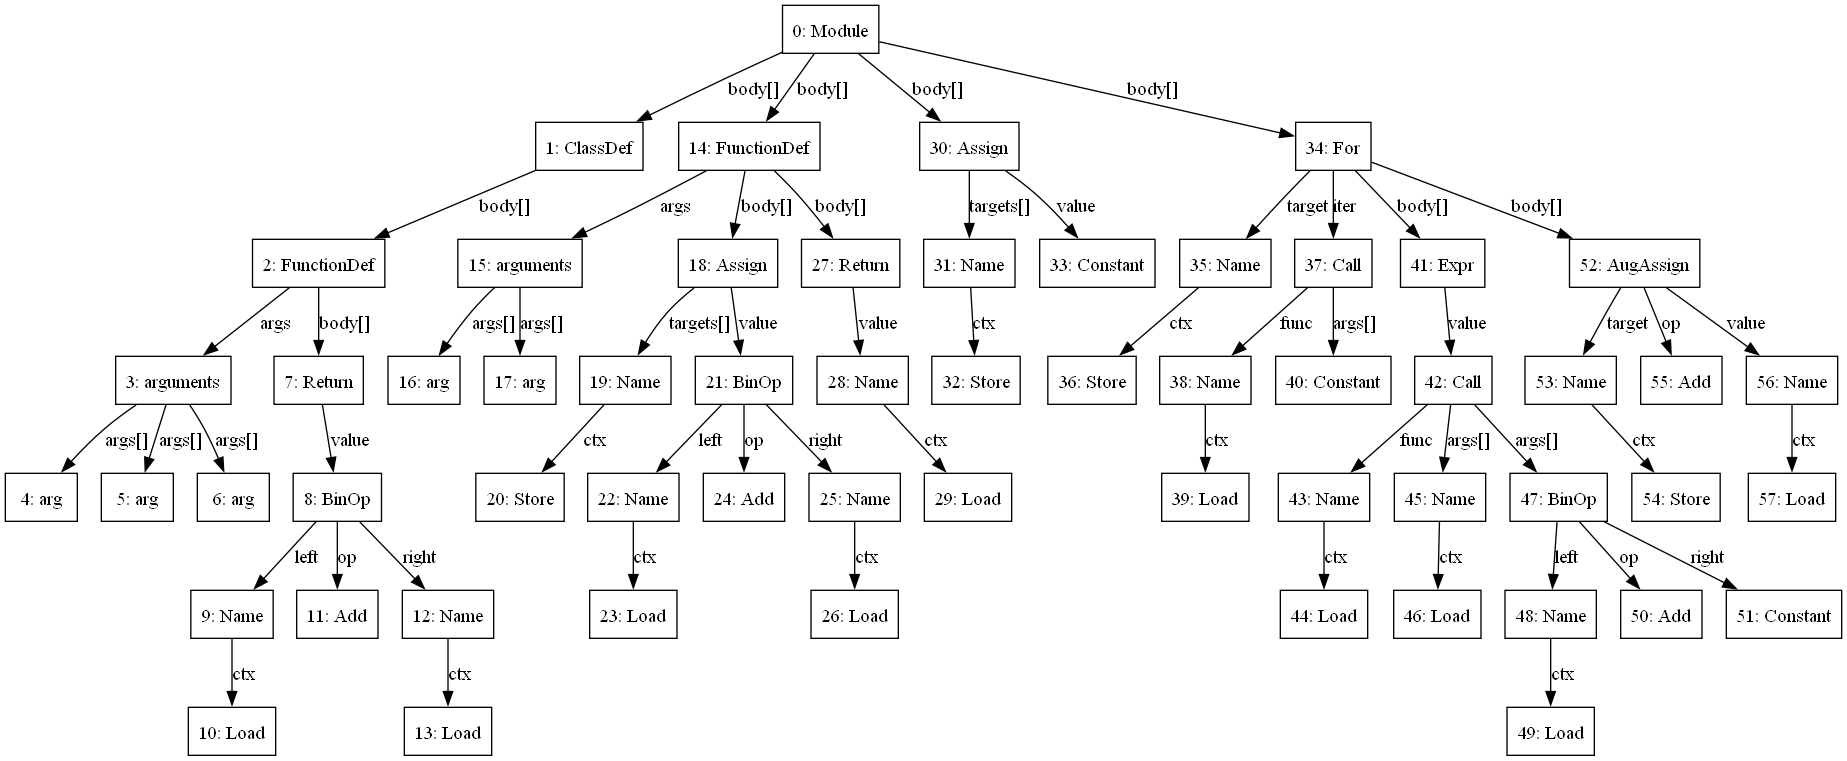
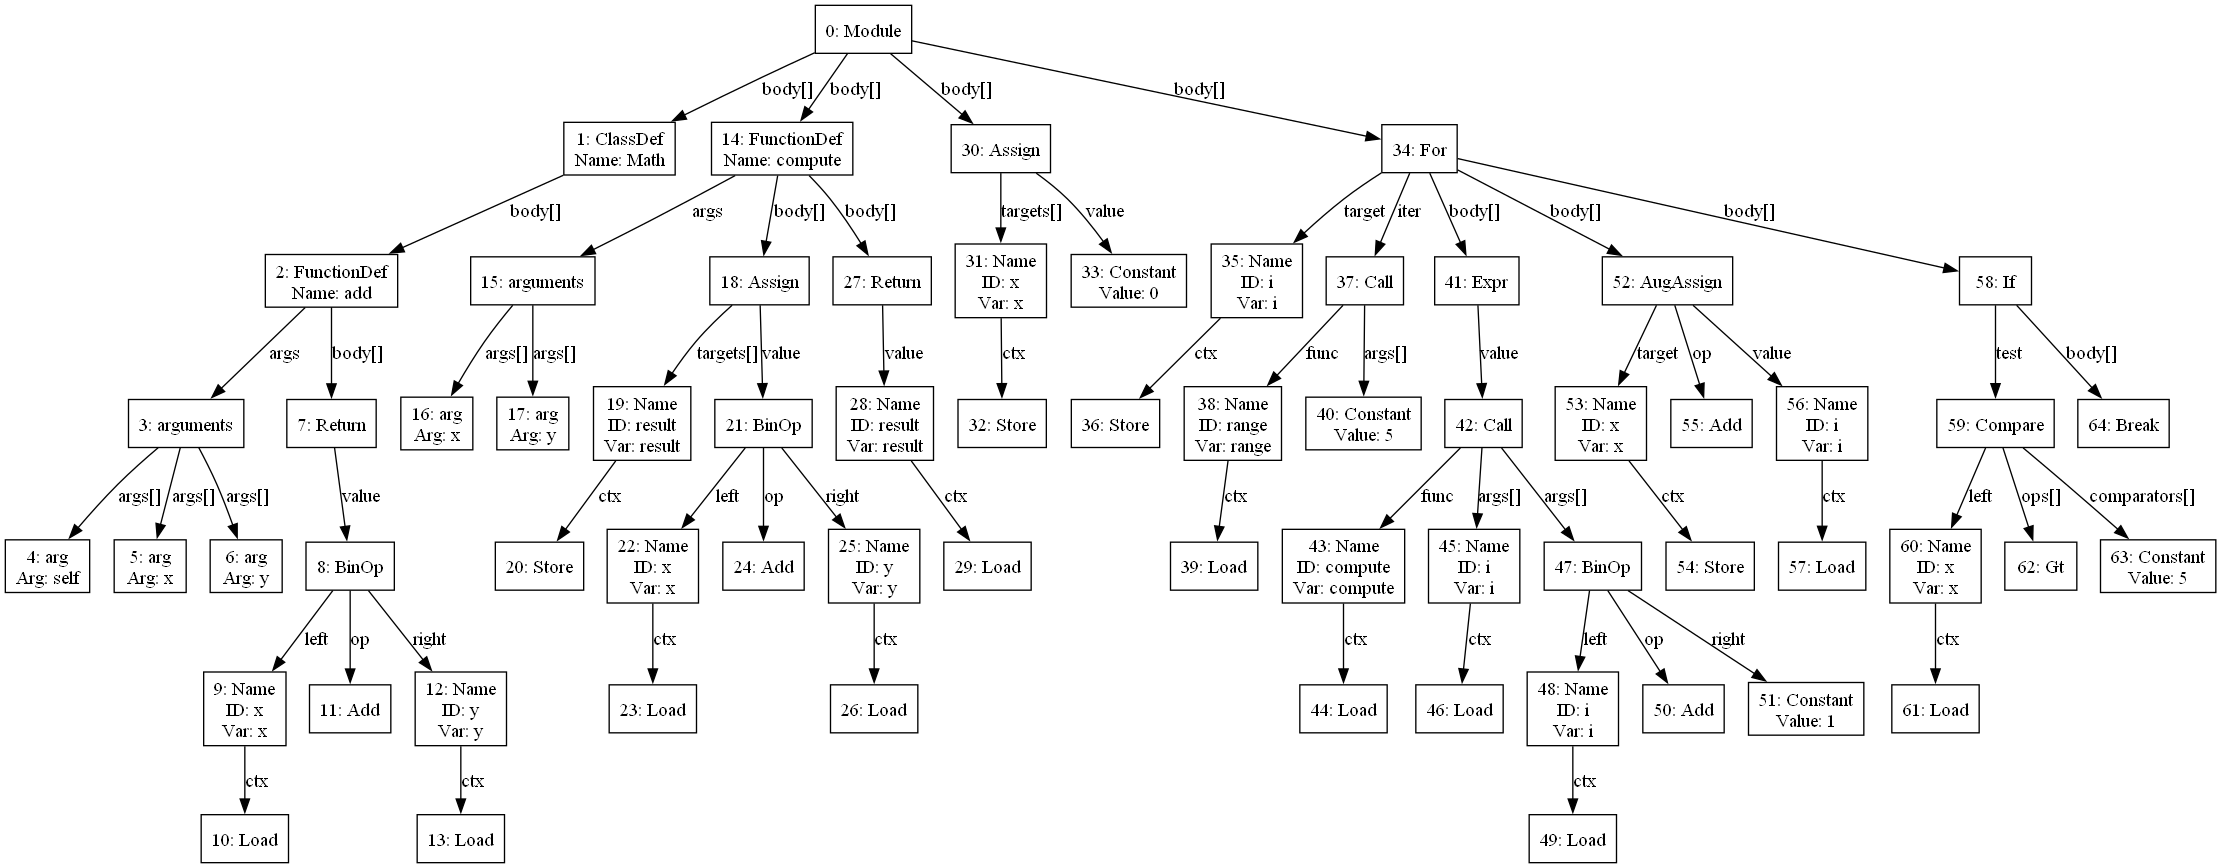
edit: node with value, arg names

diff --git a/test_track.py b/test_track.py
@@ -1,74 +1,71 @@
 import ast
 import astor
 import graphviz
-import os
 from datetime import datetime
 
-class ValueTracker(ast.NodeTransformer):
+class PythonASTAnalyzer(ast.NodeVisitor):
     def __init__(self, code):
         self.ast = ast.parse(code)
-        self.folder_name = "graphs/" + datetime.now().strftime("%Y%m%d_%H%M%S")
+        self.dot = graphviz.Digraph(comment="AST", format='png')
+        self.node_count = 0
 
-    def visit_For(self, node):
-        self.generic_visit(node)  # Process the loop body first to capture internal changes
+    def add_node(self, node, label):
+        node_id = f'node{self.node_count}'
+        detailed_label = f"{self.node_count}: {label}"
 
-        # Initialize Graphviz graph at the start of the loop
-        init_graph_stmt = ast.parse("import graphviz\ndot = graphviz.Digraph('G', format='png')").body
-        folder_check_stmt = ast.parse(f"import os\nif not os.path.exists('{self.folder_name}'): os.makedirs('{self.folder_name}')").body
+        # Add extra details based on node type
+        if hasattr(node, 'id'):
+            detailed_label += f"\\nID: {node.id}"
+        if hasattr(node, 'name'):
+            detailed_label += f"\\nName: {node.name}"
+        if hasattr(node, 'arg'):
+            detailed_label += f"\\nArg: {node.arg}"
+        if isinstance(node, ast.Constant):
+            detailed_label += f"\\nValue: {node.value}"
+        if isinstance(node, ast.Name):
+            detailed_label += f"\\nVar: {node.id}"
 
-        new_body = folder_check_stmt + init_graph_stmt
+        self.dot.node(node_id, detailed_label, shape="box")
+        self.node_count += 1
+        return node_id
 
-        for stmt in node.body:
-            self.generic_visit(stmt)  # Ensure nested structures are processed
-            new_body.append(stmt)
-            if isinstance(stmt, ast.Assign) or isinstance(stmt, ast.AugAssign):
-                # Properly handle targets for Assign and target for AugAssign
-                targets = stmt.targets if isinstance(stmt, ast.Assign) else [stmt.target]
-                for target in targets:
-                    if isinstance(target, ast.Name):
-                        value_src = astor.to_source(stmt.value).strip()
-                        update_graph_code = f"""
-import pprint
-value_repr = pprint.pformat({target.id}, width=1)
-dot.node('{target.id}', '<{target.id} = ' + value_repr.replace('\\n', '<BR/>') + '>', shape='none')
-"""
-                        update_graph_stmt = ast.parse(update_graph_code).body
-                        new_body.extend(update_graph_stmt)
+    def generic_visit(self, node):
+        label = type(node).__name__
+        node_id = self.add_node(node, label)
 
-        # Append graph rendering statement at the end of the loop body
-        render_stmt = ast.parse(f"dot.render(filename='{self.folder_name}/graph_' + str({node.target.id}), view=False)").body[0]
-        new_body.append(render_stmt)
+        for field, value in ast.iter_fields(node):
+            if isinstance(value, list):
+                for item in value:
+                    if isinstance(item, ast.AST):
+                        child_id = self.visit(item)
+                        self.dot.edge(node_id, child_id, label=f"{field}[]")
+            elif isinstance(value, ast.AST):
+                child_id = self.visit(value)
+                self.dot.edge(node_id, child_id, label=field)
 
-        node.body = new_body
-        return node
+        return node_id
 
-    def track_values(self):
+    def analyze(self):
         self.visit(self.ast)
+        self.dot.render('ast-graph', view=True)
 
-# Example Python code to visualize
-code = """
+# Sample code for analysis
+code = '''
+class Math:
+    def add(self, x, y):
+        return x + y
+
 def compute(x, y):
     result = x + y
     return result
 
 x = 0
 for i in range(5):
-    compute(i, i+1)
+    compute(i, i + 1)
     x += i
-    y = {'a': i+1, 'b': i+2}
-    z = [[i+1, i+2], [i+3, i+4]]
-"""
+    if x > 5:
+        break
+'''
 
-# Create a tracker and modify the AST
-tracker = ValueTracker(code)
-tracker.track_values()
-
-# Optionally execute the modified code
-exec_globals = {'graphviz': graphviz, 'os': os, 'datetime': datetime, 'pprint': __import__('pprint')}
-exec(compile(astor.to_source(tracker.ast), filename="<ast>", mode="exec"), exec_globals)
-
-# Display the modified source code
-print(astor.to_source(tracker.ast))
-f=open('output.txt','w')
-f.write(astor.to_source(tracker.ast))
-f.close()
+analyzer = PythonASTAnalyzer(code)
+analyzer.analyze()

diff --git a/PythonASTAnalyzer.py b/PythonASTAnalyzer.py
@@ -2,7 +2,6 @@ import ast
 import astor
 import graphviz
 from collections import defaultdict
-from datetime import datetime
 
 class PythonASTAnalyzer(ast.NodeVisitor):
     def __init__(self, code):
